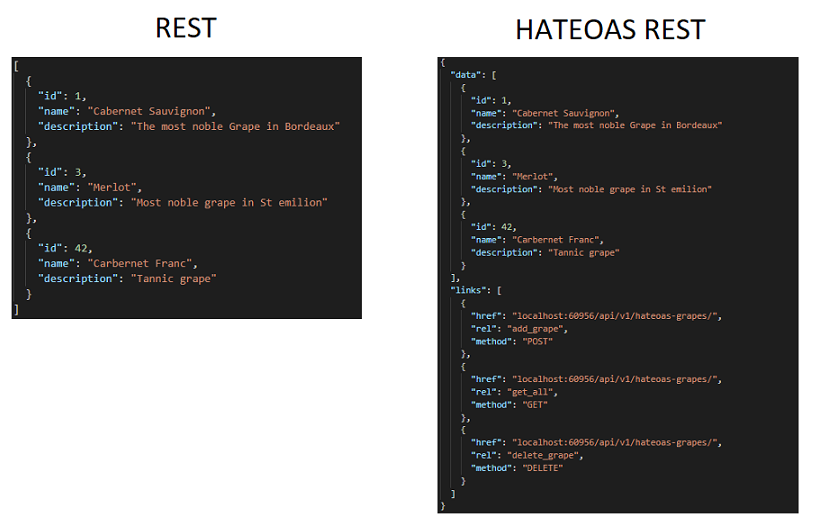
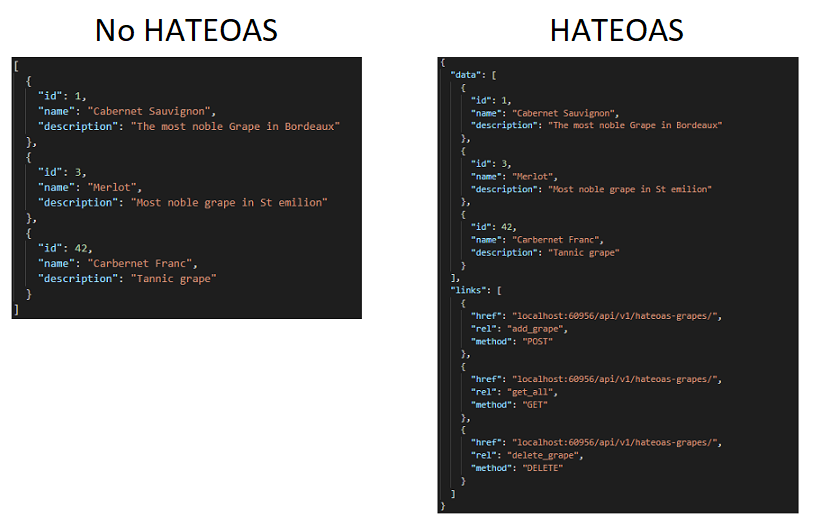
update

Changed region(s): [[0.615, 0.0306, 0.861, 0.0918], [0.0923, 0.0306, 0.3383, 0.0918]]

diff --git a/_posts/2020-04-21-rest-api-design-richardson-maturity-model.md b/_posts/2020-04-21-rest-api-design-richardson-maturity-model.md
@@ -66,6 +66,10 @@ It means the clients with previous little or no knowledge of the API, should be 
 
 And HATEOAS make it possible in providing navigational links, relevant actions to describe the use cases of different resources in the API.
 
+Here is a comparison between an API without HATEOAS and another API with HATEOAS.
+
+With HATEOAS, you can see the **href**s and **method**s to be used to achieve the purpose of different **rel**s.
+
 ![](./../../../assets/images/RichardsonMaturityModel/rest_vs_hateoas_rest.png)
 
 <br/>
